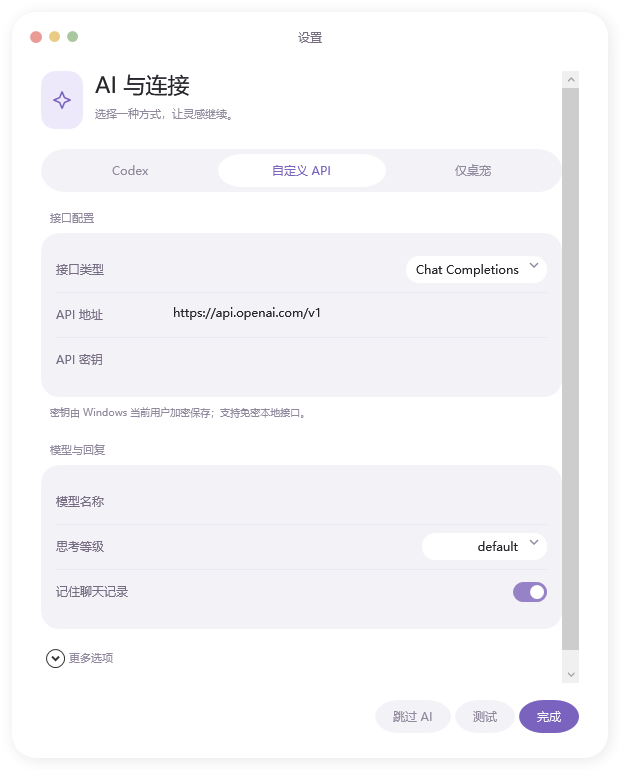
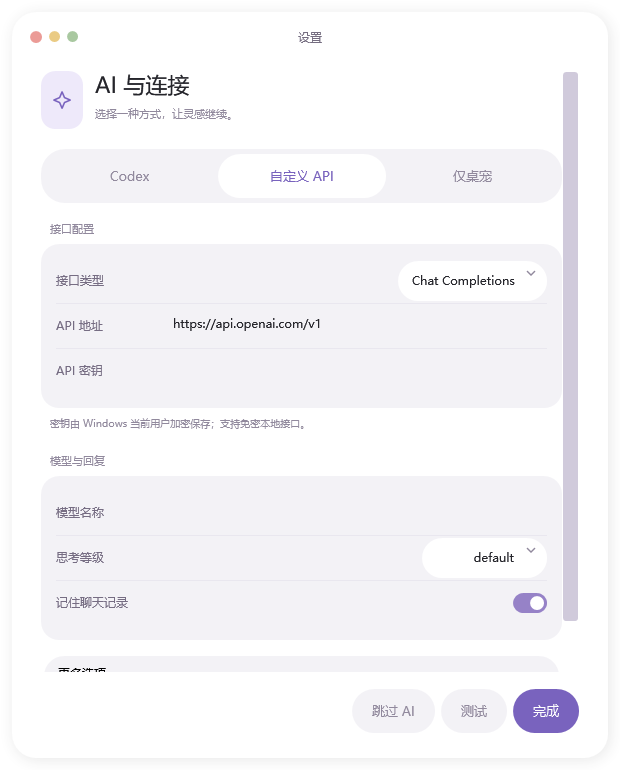
fix: use true capsule buttons and rounded dropdown options

diff --git a/src/ChatUi.cs b/src/ChatUi.cs
@@ -11,13 +11,17 @@ using System.Windows.Media.Imaging;
 using System.Windows.Shapes;
 
 namespace HailuotaPet {
+ public class CapsuleRadiusConverter : System.Windows.Data.IValueConverter {
+  public object Convert(object value,Type targetType,object parameter,System.Globalization.CultureInfo culture){return new CornerRadius(Math.Max(0,(double)value/2));}
+  public object ConvertBack(object value,Type targetType,object parameter,System.Globalization.CultureInfo culture){throw new NotSupportedException();}
+ }
  public static class Ui {
   public const string Ink="#25252b",Muted="#91899d",Purple="#7963be",Soft="#f3f2f6",Tint="#eee9fa";
   public static Brush Color(string value) { return (Brush)new BrushConverter().ConvertFromString(value); }
   public static TextBlock Text(string text,double size=13,string color=Ink) { return new TextBlock {Text=text,FontSize=size,Foreground=Color(color),TextWrapping=TextWrapping.Wrap,Margin=new Thickness(0,0,0,8)}; }
   public static Button Button(string title,Action click) {
-   var button=new Button {Content=title,Padding=new Thickness(18,9,18,9),Margin=new Thickness(4,0,0,0),Background=Color(Soft),Foreground=Color(Muted),BorderThickness=new Thickness(0),Cursor=Cursors.Hand,FontSize=12};
-   var border=new FrameworkElementFactory(typeof(Border)); border.SetValue(Border.CornerRadiusProperty,new CornerRadius(24)); border.SetBinding(Border.BackgroundProperty,new System.Windows.Data.Binding("Background") {RelativeSource=new System.Windows.Data.RelativeSource(System.Windows.Data.RelativeSourceMode.TemplatedParent)});
+   var button=new Button {Content=title,MinHeight=44,MinWidth=64,Padding=new Thickness(20,11,20,11),Margin=new Thickness(6,0,0,0),Background=Color(Soft),Foreground=Color(Muted),BorderThickness=new Thickness(0),Cursor=Cursors.Hand,FontSize=13};
+   var border=new FrameworkElementFactory(typeof(Border),"Capsule"); border.SetBinding(Border.CornerRadiusProperty,new System.Windows.Data.Binding("ActualHeight") {RelativeSource=new System.Windows.Data.RelativeSource(System.Windows.Data.RelativeSourceMode.Self),Converter=new CapsuleRadiusConverter()}); border.SetBinding(Border.BackgroundProperty,new System.Windows.Data.Binding("Background") {RelativeSource=new System.Windows.Data.RelativeSource(System.Windows.Data.RelativeSourceMode.TemplatedParent)});
    var content=new FrameworkElementFactory(typeof(ContentPresenter)); content.SetValue(ContentPresenter.HorizontalAlignmentProperty,HorizontalAlignment.Center); content.SetValue(ContentPresenter.VerticalAlignmentProperty,VerticalAlignment.Center);
    content.SetBinding(ContentPresenter.ContentProperty,new System.Windows.Data.Binding("Content") {RelativeSource=new System.Windows.Data.RelativeSource(System.Windows.Data.RelativeSourceMode.TemplatedParent)});
    content.SetBinding(ContentPresenter.MarginProperty,new System.Windows.Data.Binding("Padding") {RelativeSource=new System.Windows.Data.RelativeSource(System.Windows.Data.RelativeSourceMode.TemplatedParent)}); border.AppendChild(content);
@@ -51,16 +55,19 @@ namespace HailuotaPet {
    return new System.Windows.Shapes.Path {Data=Geometry.Parse(path),Width=18,Height=18,Stretch=Stretch.Uniform,Stroke=ink??Color(Muted),StrokeThickness=1.6,StrokeStartLineCap=PenLineCap.Round,StrokeEndLineCap=PenLineCap.Round,StrokeLineJoin=PenLineJoin.Round};
   }
   public static void SetIcon(Button button,string glyph) { var icon=Glyph(glyph);icon.Width=icon.Height=Math.Min(18,button.Width-10); icon.SetBinding(Shape.StrokeProperty,new System.Windows.Data.Binding("Foreground") {Source=button}); button.Content=icon; }
-  public static Button Icon(string name,string glyph,Action click,double size=30) { var b=Button(name,click); b.Width=b.Height=size; b.Padding=new Thickness(0); b.Background=Brushes.Transparent; b.ToolTip=name; ToolTipService.SetInitialShowDelay(b,350); SetIcon(b,glyph); return b; }
+  public static Button Icon(string name,string glyph,Action click,double size=30) { var b=Button(name,click); b.MinWidth=b.MinHeight=0;b.Width=b.Height=size; b.Padding=new Thickness(0); b.Background=Brushes.Transparent; b.ToolTip=name; ToolTipService.SetInitialShowDelay(b,350); SetIcon(b,glyph); return b; }
   public static CheckBox Toggle() {var box=new CheckBox {Width=34,Height=20,Cursor=Cursors.Hand};box.Template=(ControlTemplate)System.Windows.Markup.XamlReader.Parse(@"<ControlTemplate xmlns='http://schemas.microsoft.com/winfx/2006/xaml/presentation' xmlns:x='http://schemas.microsoft.com/winfx/2006/xaml' TargetType='CheckBox'><Grid><Border x:Name='rail' Background='#b6b1c0' CornerRadius='10'/><Ellipse x:Name='thumb' Width='14' Height='14' Fill='White' Margin='3' HorizontalAlignment='Left'/></Grid><ControlTemplate.Triggers><Trigger Property='IsChecked' Value='True'><Setter TargetName='rail' Property='Background' Value='#9682c7'/><Setter TargetName='thumb' Property='HorizontalAlignment' Value='Right'/></Trigger><Trigger Property='IsEnabled' Value='False'><Setter Property='Opacity' Value='.4'/></Trigger></ControlTemplate.Triggers></ControlTemplate>");return box;}
+  public static Expander Expand(string title,UIElement content){var expander=new Expander {Header=title,Content=content,Foreground=Color(Muted),FontSize=12,Margin=new Thickness(3,16,3,0)};expander.Template=(ControlTemplate)System.Windows.Markup.XamlReader.Parse(@"<ControlTemplate xmlns='http://schemas.microsoft.com/winfx/2006/xaml/presentation' xmlns:x='http://schemas.microsoft.com/winfx/2006/xaml' TargetType='Expander'><StackPanel><ToggleButton MinHeight='40' Cursor='Hand' IsChecked='{Binding IsExpanded, RelativeSource={RelativeSource TemplatedParent}, Mode=TwoWay}'><ToggleButton.Template><ControlTemplate TargetType='ToggleButton'><Border Background='#f3f2f6' CornerRadius='20' Padding='14,10'><ContentPresenter/></Border></ControlTemplate></ToggleButton.Template><ContentPresenter Content='{TemplateBinding Header}'/></ToggleButton><ContentPresenter x:Name='body' Content='{TemplateBinding Content}' Margin='0,10,0,0' Visibility='Collapsed'/></StackPanel><ControlTemplate.Triggers><Trigger Property='IsExpanded' Value='True'><Setter TargetName='body' Property='Visibility' Value='Visible'/></Trigger></ControlTemplate.Triggers></ControlTemplate>");return expander;}
   public static void ComboStyle(ComboBox box) {
    box.Background=Brushes.Transparent;box.Foreground=Color(Ink);box.BorderThickness=new Thickness(0);box.FontSize=12;box.MinWidth=125;box.HorizontalAlignment=HorizontalAlignment.Right;
-   box.Template=(ControlTemplate)System.Windows.Markup.XamlReader.Parse(@"<ControlTemplate xmlns='http://schemas.microsoft.com/winfx/2006/xaml/presentation' xmlns:x='http://schemas.microsoft.com/winfx/2006/xaml' TargetType='ComboBox'><Grid><ToggleButton Focusable='False' IsChecked='{Binding IsDropDownOpen, RelativeSource={RelativeSource TemplatedParent}, Mode=TwoWay}'><ToggleButton.Template><ControlTemplate TargetType='ToggleButton'><Border Background='White' CornerRadius='13' Padding='9,7'><Path HorizontalAlignment='Right' Data='M0,0 L4,4 L8,0' Stroke='#91899d' StrokeThickness='1.4'/></Border></ControlTemplate></ToggleButton.Template></ToggleButton><ContentPresenter x:Name='selection' Margin='10,6,28,6' HorizontalAlignment='Right' VerticalAlignment='Center' IsHitTestVisible='False' Content='{TemplateBinding SelectionBoxItem}'/><TextBox x:Name='PART_EditableTextBox' Visibility='Hidden' Margin='8,5,27,5' VerticalAlignment='Center' Background='Transparent' BorderThickness='0' Foreground='#25252b' TextAlignment='Right'/><Popup x:Name='PART_Popup' Placement='Bottom' AllowsTransparency='True' Focusable='False' IsOpen='{TemplateBinding IsDropDownOpen}'><Border Background='White' BorderBrush='#e9e7ef' BorderThickness='1' CornerRadius='13' Padding='7' MinWidth='125'><ScrollViewer MaxHeight='240'><ItemsPresenter/></ScrollViewer></Border></Popup></Grid><ControlTemplate.Triggers><Trigger Property='IsEditable' Value='True'><Setter TargetName='PART_EditableTextBox' Property='Visibility' Value='Visible'/><Setter TargetName='selection' Property='Visibility' Value='Hidden'/></Trigger><Trigger Property='IsEnabled' Value='False'><Setter Property='Opacity' Value='.4'/></Trigger></ControlTemplate.Triggers></ControlTemplate>");
+   box.Template=(ControlTemplate)System.Windows.Markup.XamlReader.Parse(@"<ControlTemplate xmlns='http://schemas.microsoft.com/winfx/2006/xaml/presentation' xmlns:x='http://schemas.microsoft.com/winfx/2006/xaml' TargetType='ComboBox'><Grid><ToggleButton MinHeight='40' Focusable='False' IsChecked='{Binding IsDropDownOpen, RelativeSource={RelativeSource TemplatedParent}, Mode=TwoWay}'><ToggleButton.Template><ControlTemplate TargetType='ToggleButton'><Border Background='White' CornerRadius='20' Padding='12,10'><Path HorizontalAlignment='Right' Data='M0,0 L4,4 L8,0' Stroke='#91899d' StrokeThickness='1.4'/></Border></ControlTemplate></ToggleButton.Template></ToggleButton><ContentPresenter x:Name='selection' Margin='14,8,32,8' HorizontalAlignment='Right' VerticalAlignment='Center' IsHitTestVisible='False' Content='{TemplateBinding SelectionBoxItem}'/><TextBox x:Name='PART_EditableTextBox' Visibility='Hidden' Margin='12,8,31,8' VerticalAlignment='Center' Background='Transparent' BorderThickness='0' Foreground='#25252b' TextAlignment='Right'/><Popup x:Name='PART_Popup' Placement='Bottom' AllowsTransparency='True' Focusable='False' IsOpen='{TemplateBinding IsDropDownOpen}'><Border Background='White' BorderThickness='0' CornerRadius='22' Padding='8' MinWidth='190' Margin='8'><Border.Effect><DropShadowEffect BlurRadius='16' ShadowDepth='3' Opacity='.14' Color='#91899d'/></Border.Effect><ScrollViewer MaxHeight='240'><ItemsPresenter/></ScrollViewer></Border></Popup></Grid><ControlTemplate.Triggers><Trigger Property='IsEditable' Value='True'><Setter TargetName='PART_EditableTextBox' Property='Visibility' Value='Visible'/><Setter TargetName='selection' Property='Visibility' Value='Hidden'/></Trigger><Trigger Property='IsEnabled' Value='False'><Setter Property='Opacity' Value='.4'/></Trigger></ControlTemplate.Triggers></ControlTemplate>");
+   box.ItemContainerStyle=(Style)System.Windows.Markup.XamlReader.Parse(@"<Style xmlns='http://schemas.microsoft.com/winfx/2006/xaml/presentation' xmlns:x='http://schemas.microsoft.com/winfx/2006/xaml' TargetType='ComboBoxItem'><Setter Property='MinHeight' Value='40'/><Setter Property='Margin' Value='0,2'/><Setter Property='Padding' Value='12,8,32,8'/><Setter Property='Foreground' Value='#62596f'/><Setter Property='Background' Value='Transparent'/><Setter Property='Cursor' Value='Hand'/><Setter Property='FocusVisualStyle' Value='{x:Null}'/><Setter Property='Template'><Setter.Value><ControlTemplate TargetType='ComboBoxItem'><Border x:Name='pill' CornerRadius='20' Background='{TemplateBinding Background}' BorderThickness='1' BorderBrush='Transparent'><Grid><ContentPresenter Margin='{TemplateBinding Padding}' VerticalAlignment='Center'/><Path x:Name='check' Visibility='Hidden' HorizontalAlignment='Right' VerticalAlignment='Center' Margin='0,0,13,0' Data='M0,4 L3,7 L9,0' Stroke='#7963be' StrokeThickness='1.6'/></Grid></Border><ControlTemplate.Triggers><Trigger Property='IsHighlighted' Value='True'><Setter Property='Background' Value='#f3f2f6'/></Trigger><Trigger Property='IsSelected' Value='True'><Setter Property='Background' Value='#eee9fa'/><Setter Property='Foreground' Value='#7963be'/><Setter TargetName='check' Property='Visibility' Value='Visible'/></Trigger><Trigger Property='IsKeyboardFocusWithin' Value='True'><Setter TargetName='pill' Property='BorderBrush' Value='#b7a7d7'/></Trigger></ControlTemplate.Triggers></ControlTemplate></Setter.Value></Setter></Style>");
   }
   public static Image Logo(double size=24) { return new Image {Source=new BitmapImage(new Uri(System.IO.Path.Combine(AppDomain.CurrentDomain.BaseDirectory,"assets","logo.png"))),Width=size,Height=size,Margin=new Thickness(0,0,9,0)}; }
+  static void SlimScrollBars(Window w){w.Resources[typeof(System.Windows.Controls.Primitives.ScrollBar)]=(Style)System.Windows.Markup.XamlReader.Parse(@"<Style xmlns='http://schemas.microsoft.com/winfx/2006/xaml/presentation' xmlns:x='http://schemas.microsoft.com/winfx/2006/xaml' TargetType='ScrollBar'><Setter Property='Width' Value='6'/><Setter Property='Template'><Setter.Value><ControlTemplate TargetType='ScrollBar'><Grid Background='Transparent'><Track x:Name='PART_Track' IsDirectionReversed='True' Orientation='{TemplateBinding Orientation}' Minimum='{TemplateBinding Minimum}' Maximum='{TemplateBinding Maximum}' Value='{TemplateBinding Value}' ViewportSize='{TemplateBinding ViewportSize}'><Track.DecreaseRepeatButton><RepeatButton Command='{x:Static ScrollBar.PageUpCommand}'><RepeatButton.Template><ControlTemplate TargetType='RepeatButton'><Border Background='Transparent'/></ControlTemplate></RepeatButton.Template></RepeatButton></Track.DecreaseRepeatButton><Track.Thumb><Thumb MinHeight='24'><Thumb.Template><ControlTemplate TargetType='Thumb'><Border Background='#d0cadb' CornerRadius='3' Margin='1'/></ControlTemplate></Thumb.Template></Thumb></Track.Thumb><Track.IncreaseRepeatButton><RepeatButton Command='{x:Static ScrollBar.PageDownCommand}'><RepeatButton.Template><ControlTemplate TargetType='RepeatButton'><Border Background='Transparent'/></ControlTemplate></RepeatButton.Template></RepeatButton></Track.IncreaseRepeatButton></Track></Grid></ControlTemplate></Setter.Value></Setter></Style>");}
   public static TextBox Input(string value,bool multiline=false) { return new TextBox {Text=value??"",Background=Brushes.Transparent,Foreground=Color(Ink),BorderThickness=new Thickness(0),CaretBrush=Color(Purple),SelectionBrush=Color("#c5b4ea"),Padding=new Thickness(5),FontSize=12,Margin=new Thickness(0),AcceptsReturn=multiline,TextWrapping=multiline?TextWrapping.Wrap:TextWrapping.NoWrap,VerticalScrollBarVisibility=multiline?ScrollBarVisibility.Auto:ScrollBarVisibility.Hidden,MinHeight=multiline?70:30}; }
   public static Border Surface(UIElement child,double radius=18,string color=Soft,Thickness? padding=null) { return new Border {Background=Color(color),CornerRadius=new CornerRadius(radius),Padding=padding??new Thickness(15),Child=child}; }
-  public static void Theme(Window w) { w.FontFamily=new FontFamily("Microsoft YaHei UI"); w.Background=Brushes.White; w.Foreground=Color(Ink); w.UseLayoutRounding=true; w.Icon=BitmapFrame.Create(new Uri(System.IO.Path.Combine(AppDomain.CurrentDomain.BaseDirectory,"assets","pet.ico"))); }
+  public static void Theme(Window w) { w.FontFamily=new FontFamily("Microsoft YaHei UI"); w.Background=Brushes.White; w.Foreground=Color(Ink); w.UseLayoutRounding=true; SlimScrollBars(w); w.Icon=BitmapFrame.Create(new Uri(System.IO.Path.Combine(AppDomain.CurrentDomain.BaseDirectory,"assets","pet.ico"))); }
   public static void Shell(Window w,string title,UIElement body) {
    Theme(w); w.WindowStyle=WindowStyle.None; w.AllowsTransparency=true; w.Background=Brushes.Transparent; w.ResizeMode=ResizeMode.NoResize; w.ShowInTaskbar=false;
    var panel=new DockPanel(); var header=new Grid {Height=50,Margin=new Thickness(18,0,18,0),Background=Brushes.Transparent};
@@ -126,7 +133,7 @@ namespace HailuotaPet {
    Label(apiPanel,"接口配置");var apiGroup=new StackPanel();protocol.Items.Add("Chat Completions");protocol.Items.Add("Responses");protocol.SelectedIndex=source.Provider=="responses"?1:0;StyleCombo(protocol);Row(apiGroup,"接口类型",protocol);url=Ui.Input(source.ApiUrl);Row(apiGroup,"API 地址",url);
    key.Background=Brushes.Transparent;key.Foreground=Ui.Color(Ui.Ink);key.BorderThickness=new Thickness(0);key.Padding=new Thickness(5);key.FontSize=12;try {key.Password=source.GetKey();}catch {info.Text="原密钥无法解密，请重新填写。";}Row(apiGroup,"API 密钥",key);apiPanel.Children.Add(Ui.Surface(apiGroup));apiPanel.Children.Add(Help("密钥由 Windows 当前用户加密保存；支持免密本地接口。"));body.Children.Add(apiPanel);
    Label(commonPanel,"模型与回复");var modelGroup=new StackPanel();model=Ui.Input(source.Model);model.ToolTip="Codex 可留空；API 需填写实际模型 ID";Row(modelGroup,"模型名称",model);effort.IsEditable=true;foreach(string value in new[]{"default","none","minimal","low","medium","high","xhigh","max","ultra"})effort.Items.Add(value);effort.Text=source.Reasoning;StyleCombo(effort);Row(modelGroup,"思考等级",effort);remember.IsChecked=source.RememberHistory;remember.VerticalAlignment=VerticalAlignment.Center;remember.HorizontalAlignment=HorizontalAlignment.Right;remember.ToolTip="在这台电脑保存聊天记录";remember.Foreground=Ui.Color(Ui.Purple);Row(modelGroup,"记住聊天记录",remember);commonPanel.Children.Add(Ui.Surface(modelGroup));
-   var advanced=new StackPanel();var advancedGroup=new StackPanel();timeout=Ui.Input(source.TimeoutSeconds.ToString());Row(advancedGroup,"回复超时 / 秒",timeout);tokens=Ui.Input(source.MaxTokens.ToString());Row(advancedGroup,"输出 Token 上限",tokens);temp=Ui.Input(source.Temperature);Row(advancedGroup,"Temperature",temp);advanced.Children.Add(Ui.Surface(advancedGroup));advanced.Children.Add(Help("Token 为 0 时跟随默认。思考等级及参数需所选模型支持。"));Label(advanced,"角色提示词");system=Ui.Input(source.SystemPrompt,true);system.Height=110;advanced.Children.Add(Ui.Surface(system,16));commonPanel.Children.Add(new Expander {Header="更多选项",Content=advanced,Foreground=Ui.Color(Ui.Muted),FontSize=11,Margin=new Thickness(3,18,3,0)});body.Children.Add(commonPanel);
+   var advanced=new StackPanel();var advancedGroup=new StackPanel();timeout=Ui.Input(source.TimeoutSeconds.ToString());Row(advancedGroup,"回复超时 / 秒",timeout);tokens=Ui.Input(source.MaxTokens.ToString());Row(advancedGroup,"输出 Token 上限",tokens);temp=Ui.Input(source.Temperature);Row(advancedGroup,"Temperature",temp);advanced.Children.Add(Ui.Surface(advancedGroup));advanced.Children.Add(Help("Token 为 0 时跟随默认。思考等级及参数需所选模型支持。"));Label(advanced,"角色提示词");system=Ui.Input(source.SystemPrompt,true);system.Height=110;advanced.Children.Add(Ui.Surface(system,16));commonPanel.Children.Add(Ui.Expand("更多选项",advanced));body.Children.Add(commonPanel);
    var moon=Ui.Glyph("moon",Ui.Color(Ui.Purple));moon.Width=moon.Height=30;moon.HorizontalAlignment=HorizontalAlignment.Center;moon.Margin=new Thickness(0,20,0,14);offlinePanel.Children.Add(moon);var offline=Ui.Text("安静陪伴，也很好。\n\n保留点击、拖动与桌宠互动，暂不启用 AI。\n以后可以随时回来设置。",13,Ui.Muted);offline.TextAlignment=TextAlignment.Center;offline.LineHeight=25;offlinePanel.Children.Add(offline);body.Children.Add(offlinePanel);
    info.Margin=new Thickness(8,16,8,0);body.Children.Add(info);selectedProvider=source.Provider=="codex"?"codex":source.Provider=="none"?"none":"api";ShowProvider();Closing+=delegate {if(testing!=null)testing.Cancel();};
   }

diff --git a/src/AiChecks.cs b/src/AiChecks.cs
@@ -44,9 +44,14 @@ namespace HailuotaPet {
   static void CheckSettings(string checks) {
    var source=new AiSettings {Provider="responses",ApiUrl="http://127.0.0.1/v1",Model="ui-test-model",Reasoning="high",TimeoutSeconds=90,MaxTokens=512,Temperature="0.2",SystemPrompt="角色提示词保留测试",RememberHistory=false};source.SetKey("ui-only-test-key");
    var window=new SettingsWindow(source);window.Show();var flags=System.Reflection.BindingFlags.Instance|System.Reflection.BindingFlags.NonPublic;
+   window.UpdateLayout();foreach(var button in FindControls<System.Windows.Controls.Button>(window)){var capsule=button.Template.FindName("Capsule",button) as System.Windows.Controls.Border;if(capsule==null)continue;Assert(Math.Abs(capsule.CornerRadius.TopLeft-capsule.ActualHeight/2)<.1,"Button ends are not semicircles");if(button.Content is string)Assert(button.ActualHeight>=44,"Text capsule is too flat");}
    var read=typeof(SettingsWindow).GetMethod("Read",flags);var restored=(AiSettings)read.Invoke(window,null);
    Assert(restored.Provider=="responses"&&restored.GetKey()=="ui-only-test-key"&&restored.Model==source.Model&&restored.Reasoning==source.Reasoning&&restored.TimeoutSeconds==90&&restored.MaxTokens==512&&restored.Temperature=="0.2"&&restored.SystemPrompt==source.SystemPrompt&&!restored.RememberHistory,"Capsule settings roundtrip lost fields");
    var protocol=(System.Windows.Controls.ComboBox)typeof(SettingsWindow).GetField("protocol",flags).GetValue(window);protocol.SelectedIndex=0;Assert(((AiSettings)read.Invoke(window,null)).Provider=="chat","API protocol switch failed");
+   protocol.IsDropDownOpen=true;window.Dispatcher.Invoke(new Action(delegate{}),System.Windows.Threading.DispatcherPriority.ContextIdle);window.UpdateLayout();
+   var popup=(System.Windows.Controls.Primitives.Popup)protocol.Template.FindName("PART_Popup",protocol);var popupBody=(FrameworkElement)popup.Child;popupBody.UpdateLayout();
+   var menuBitmap=new System.Windows.Media.Imaging.RenderTargetBitmap((int)Math.Ceiling(popupBody.ActualWidth),(int)Math.Ceiling(popupBody.ActualHeight),96,96,System.Windows.Media.PixelFormats.Pbgra32);menuBitmap.Render(popupBody);var menuPng=new System.Windows.Media.Imaging.PngBitmapEncoder();menuPng.Frames.Add(System.Windows.Media.Imaging.BitmapFrame.Create(menuBitmap));using(var file=File.Create(Path.Combine(checks,"protocol-menu.png")))menuPng.Save(file);
+   var firstOption=(System.Windows.Controls.ComboBoxItem)protocol.ItemContainerGenerator.ContainerFromIndex(0);var optionPill=(System.Windows.Controls.Border)firstOption.Template.FindName("pill",firstOption);Assert(firstOption.ActualHeight>=40&&optionPill.CornerRadius.TopLeft==20,"Dropdown option capsule style missing");protocol.IsDropDownOpen=false;
    var remember=(System.Windows.Controls.CheckBox)typeof(SettingsWindow).GetField("remember",flags).GetValue(window);remember.IsChecked=true;Assert(((AiSettings)read.Invoke(window,null)).RememberHistory,"Capsule toggle failed");
    foreach(var expander in FindControls<System.Windows.Controls.Expander>(window))expander.IsExpanded=true;Ui.Render(window,Path.Combine(checks,"settings-expanded-window.png"));
    var providers=(System.Windows.Controls.Button[])typeof(SettingsWindow).GetField("providers",flags).GetValue(window);providers[2].RaiseEvent(new RoutedEventArgs(System.Windows.Controls.Button.ClickEvent));Assert(((AiSettings)read.Invoke(window,null)).Provider=="none","Offline capsule selection failed");Ui.Render(window,Path.Combine(checks,"settings-offline-window.png"));window.Close();

diff --git a/src/Setup.cs b/src/Setup.cs
@@ -69,7 +69,7 @@ namespace HailuotaInstaller {
      Shortcut(Path.Combine(menu,"卸载海洛塔帝桌宠.lnk"),Path.Combine(folder,"卸载海洛塔帝桌宠.exe"),folder);
     }
     if(!noRegistry) using(var key=Registry.CurrentUser.CreateSubKey(Key)) {
-     key.SetValue("DisplayName","海洛塔帝桌宠"); key.SetValue("DisplayVersion","0.5.0"); key.SetValue("Publisher","海洛塔帝桌宠 · 个人定制"); key.SetValue("InstallLocation",folder);
+     key.SetValue("DisplayName","海洛塔帝桌宠"); key.SetValue("DisplayVersion","0.5.1"); key.SetValue("Publisher","海洛塔帝桌宠 · 个人定制"); key.SetValue("InstallLocation",folder);
      key.SetValue("DisplayIcon",Path.Combine(folder,Exe)+",0"); key.SetValue("UninstallString",Quote(Path.Combine(folder,"卸载海洛塔帝桌宠.exe")));
      key.SetValue("NoModify",1,RegistryValueKind.DWord); key.SetValue("NoRepair",1,RegistryValueKind.DWord);
      key.SetValue("EstimatedSize",(int)(installed.Sum(f=>new FileInfo(Inside(folder,f)).Length)/1024),RegistryValueKind.DWord);

diff --git a/src/AssemblyInfo.cs b/src/AssemblyInfo.cs
@@ -2,5 +2,5 @@ using System.Reflection;
 [assembly: AssemblyTitle("海洛塔帝桌宠")]
 [assembly: AssemblyProduct("海洛塔帝桌宠")]
 [assembly: AssemblyDescription("桌面陪伴与 AI 聊天")]
-[assembly: AssemblyVersion("0.5.0.0")]
-[assembly: AssemblyFileVersion("0.5.0.0")]
+[assembly: AssemblyVersion("0.5.1.0")]
+[assembly: AssemblyFileVersion("0.5.1.0")]

diff --git a/CHANGELOG.md b/CHANGELOG.md
@@ -1,5 +1,12 @@
 # 更新记录
 
+## 0.5.1 — 2026-10-13
+
+- 全部应用按钮按实际高度的一半计算圆角，图标按钮保持正圆；文字按钮最低高度 44。
+- 重做下拉浮层及选项，统一胶囊选中、高亮和键盘焦点，移除系统蓝色矩形样式。
+- 高级选项入口改为胶囊，滚动条改为细圆角滑块。
+- 补充按钮半圆端点检查，并渲染实际展开的协议菜单验收。
+
 ## 0.5.0 — 2026-10-13
 
 - 将确认后的 HTML 胶囊设计移植到原生 WPF：白色圆角气泡、紫色圆形发送按钮、截图与设置线条图标。

diff --git a/使用说明.md b/使用说明.md
@@ -1,4 +1,4 @@
-# 海洛塔帝桌宠 · 胶囊 UI 版 0.5.0
+# 海洛塔帝桌宠 · 胶囊 UI 版 0.5.1
 
 气泡、首次使用和设置采用浅色扁平胶囊设计。输入栏的向上箭头为发送，四角框选图标为截图；气泡顶部的时钟、加号、滑杆、叉号分别为记录、新对话、设置和收起。悬停可查看说明。设置中的“更多选项”包含超时、Token、Temperature 和角色提示词。
 

diff --git a/用户指南.md b/用户指南.md
@@ -1,4 +1,4 @@
-# 海洛塔帝桌宠 · 胶囊 UI 版 0.5.0
+# 海洛塔帝桌宠 · 胶囊 UI 版 0.5.1
 
 气泡、首次使用和设置采用浅色扁平胶囊设计。输入栏的向上箭头为发送，四角框选图标为截图；气泡顶部的时钟、加号、滑杆、叉号分别为记录、新对话、设置和收起。悬停可查看说明。设置中的“更多选项”包含超时、Token、Temperature 和角色提示词。
 
